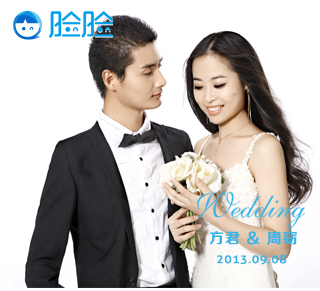
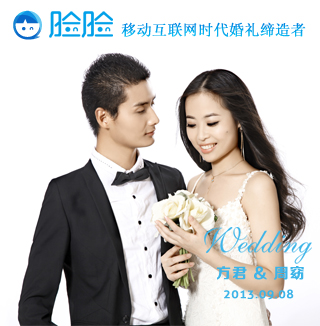
m

diff --git a/public/w/fz/index.html b/public/w/fz/index.html
@@ -12,11 +12,11 @@
     </head>
     <body>
         <div id="wrapper" style="background: url('/w/fz/images/bg11.jpg') center bottom no-repeat;">
-            <div class="container" style="padding-top:270px;background: url('/w/fz/images/pic1.jpg') center top no-repeat;">
+            <div class="container" style="padding-top:300px;background: url('/w/fz/images/pic1.jpg') center top no-repeat;">
                 <center><a href="https://itunes.apple.com/cn/app/lianlian/id577710538" title="免费下载iphone版本"><img src="/images/btn3.png" width="147"/></a>
                 <a href="http://www.dface.cn/a/down" title="免费下载Android版本"><img src="/images/btn4.png" width="147"/></a></center>
                 <div class="page" style="width:275px;font-size:12px;line-height:25px;">
-					<p style="margin-top:10px;">欢迎进入我们的微婚礼空间，观摩我们的爱情之旅~</p>
+					<p>欢迎进入我们的微婚礼空间，观摩我们的爱情之旅~</p>
 					<p style="margin-top:10px;">拍新人、送祝福怎么也不嫌多</p>
 					<p>认识同在婚礼上的朋友，</p>
 					<p>现场还有惊喜相送~</p>

diff --git a/public/w/fz/fz.html b/public/w/fz/fz.html
@@ -12,11 +12,11 @@
     </head>
     <body>
         <div id="wrapper" style="background: url('/w/fz/images/bg11.jpg') center bottom no-repeat;">
-            <div class="container" style="padding-top:270px;background: url('/w/fz/images/pic1.jpg') center top no-repeat;">
+            <div class="container" style="padding-top:300px;background: url('/w/fz/images/pic1.jpg') center top no-repeat;">
                 <center><a href="https://itunes.apple.com/cn/app/lianlian/id577710538" title="免费下载iphone版本"><img src="/images/btn3.png" width="147"/></a>
                 <a href="http://www.dface.cn/a/down" title="免费下载Android版本"><img src="/images/btn4.png" width="147"/></a></center>
                 <div class="page" style="width:210px;">
-					<p style="margin-top:10px;">脸脸——打造你的婚礼专属APP</p>
+					<p>脸脸——打造你的婚礼专属APP</p>
 					<p>拍照分享现场精彩瞬间，</p>
 					<p>认识同在婚礼上的朋友，</p>
 					<p>为他们送上最美的祝福~</p>

diff --git a/public/newbackstage/route_edit.html b/public/newbackstage/route_edit.html
@@ -204,8 +204,7 @@ function AddCompany(index){
 }
 
 function AddDiv_Td(){
-alert($("#Tr"+bq+" td").eq(1).find(".box13").html());
-	if($("#Tr"+bq+" td").eq(1).find(".box13").html()==""){alert(2);
+	if($("#Tr"+bq+" td").eq(1).find(".box13").html()==undefined){
 		var html="<div class='box13'>";
 		for(var i=0;i<$("#AddDiv ul li a").length;i++){
 			if($("#AddDiv ul li a").eq(i).attr("class")=="checkboxs2"){
@@ -214,7 +213,7 @@ alert($("#Tr"+bq+" td").eq(1).find(".box13").html());
 		}
 		html+="</div>";
 		$("#Tr"+bq+" td").eq(1).append(html);
-	}else{alert(1);
+	}else{
 		var html="";
 		for(var i=0;i<$("#AddDiv ul li a").length;i++){
 			if($("#AddDiv ul li a").eq(i).attr("class")=="checkboxs2"){
